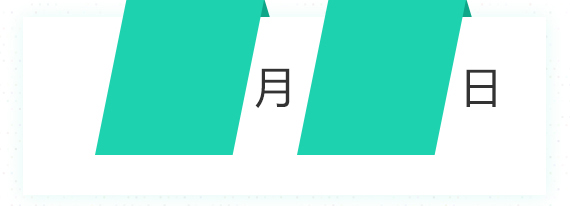
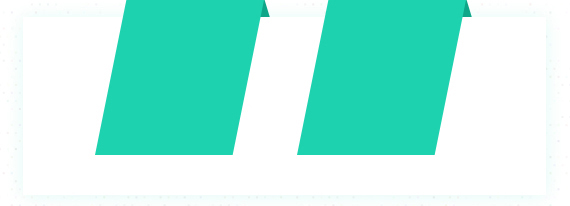
update

Changed region(s): [[0.8053, 0.3204, 0.8947, 0.5243], [0.4474, 0.3204, 0.507, 0.5243]]

diff --git a/src/lang/zh.js b/src/lang/zh.js
@@ -104,10 +104,7 @@ module.exports = {
     part3Text1:"师资阵容",
     part3Text2:"你的人生导师",
 
-    part3Text3a:"① 打造高品质师资团队",
-    part3Text3b:"② 更加靠谱",
-    part3Text3c:"③ 更懂考点",
-    part3Text3d:"④ 更懂沟通",
+    part3Text3:"① 打造高品质师资团队<br>② 更加靠谱<br>③ 更懂考点<br>④ 更懂沟通",
 
     part3Text4:"在新康教育，一定能找到适合你的导师",
 
@@ -188,6 +185,8 @@ module.exports = {
 
     part7Titl:'2019年上海市成人学历初审时间即将截止',
     part7Subt:'自考本科一年报名时间只有两次，每年3月和9月，错过至少会耽误1年时间毕业',
+    part7Month:'月',
+    part7Date:'日',
     part7Note:'报考提醒：正式报名时间很短，官网会出现堵塞，建议考生提早报考，否则可能出现:① 考场名额限额，考场被安排在偏远区域；② 专业院校名额有限，选不上想报的专业。',
     part7Items:[
         {
@@ -431,12 +430,39 @@ module.exports = {
 
 
 
+
+   
+    // newsdetails
+    newsCt:{
+        '0001':{
+          title:'叶的事业--新康教育为何要对学生<br>进行感恩教育',
+          date:'2018-12-21',
+          visits:'2028',
+          text:'伟大的诗人泰戈尔有这样一段名言：“花的事业是甜蜜的，果的事业是珍贵的”。而我们新康做的是“叶”的事业，每位老师都象是一片绿叶，在学院领导的带领下进行着光合作用，孕育着花，孕育着果，孕育着芬芳桃李。作为一所全日制高等助学院校，我们不仅要致力于学生的知识提高，更强调学生个人素质、品格的提高。让我们怀揣着一颗感恩的心，感谢家长放心地把孩子交给我们！我们要把我们的爱，我们的智慧，我们的感恩之心传递给我们的每位学子.感恩是一种生活态度，是一种美德，是一片片肺腑之言。<br>现代的孩子都是家庭的中心，他们心中只知爱自己，不知道关爱别人。不少学生不但不体谅父母的辛劳，反而无休止索取，买吃的，买穿的，进网吧……在他们眼中，向父母要钱天经地义。大学生中，许多学生从父母那里要钱，但给家里写信问候的学生不到十分之一。我们不应该这样做，应该时时刻刻为别人着想，父母给你东西时应该说声“谢谢”，应该为父母做一些家务，更应该好好学习，以报答老师和学校。<br>美国的民歌《老黑奴》，那种对世界乐观的态度，对人生的豁达，由此联想到了西方文化的感恩节，想到了我们从古以来，历史文化长河中永不消失的感情——感恩。“知恩不报非君子”。我们要怀着一颗感恩的心，应该时时、天天、年年直至永远；让感恩应该作为一种习惯，一种美德，在我们心中深深扎根。<br>“叶”的事业，感谢有您的信任和支持！'
+
+        },
+        '0002':{
+          title:'新康教育-就业指导课<br>专家来帮忙',
+          date:'2018-12-21',
+          visits:'2028',
+          text:'8月1日 上午9点30分，由上海市职介所副所长带领的专家团队光临上海新康进修学院，并在我院展开“金色阳光就业指导讲座”讲座活动。<br>为了帮助大四毕业生准确有效地确定就业方向，提前做好就业准备，培训就业中心和上海市职业指导专家携手就当前就业形式、就业方向及定位做了详细的指导，参与此次讲座的13级的学子们从中获得了不少宝贵的经验。<br>专家用生动的语言、鲜明的事例，围绕在校大学生如何看待当今的就业形势、学会正确分析自己的优势与不足，如何转变就业观念等多个方面的问题，为同学们做了详细的解析。<br>通过这次精彩的讲座使同学们认识到了职业生涯规划的重要性，帮助学生认清就业形势，为自己制定一个更加合理的职业定位，调整好自己的心态，为即将面临的就业问题奠定了良好的基础。<br>培训就业中心会以务实的态度，积极努力的为学生的就业服务，积极响应“一切为学生，为了一切学生，为了学生一切”的办学理念。'
+
+        },
+        '0003':{
+          title:'新康教育努力做好一件事,为社会<br>培养有用人才',
+          date:'2018-12-21',
+          visits:'2028',
+          text:'家长们！在社会竞争非常激烈的时代，没有丰富的科学文化知识是不行的。“知识就是力量”，知识对于现在社会的重要性不言而喻。现在摆在我们面前的是机遇与挑战并存，谁能在人生的第一次重要的抉择中胜出，谁就使未来的成功多一份保障。<br>孩子是每个家庭最大的希望，新康教育作为一所承载着众多家庭希望的民办院校，有责任也有义务将您的孩子培养成为社会有用人才。<br>学院为学生创造了利于学习的环境、氛围和条件，从学习方法、学习态度、学习习惯等方面给以正面的教育和引导。同时，学院及时疏导、纠正孩子成长过程中遇到的思想困惑、情感波动和行为偏差。学院着重培养孩子良好的品行习惯，对孩子的道德品行、良好习惯的养成从开始抓起，从小事抓起，对不良行为要及时地预防和矫治。<br>学院自建校以来即实行“半封闭式管理”班主任老师全天候24小时对学生进行跟踪管理，从学生一入学即建立成长记录，确保学生的健康成长，同时实行的宿舍走访制度、定期与家长联系制度、定期班会制度贯穿于整个管理过程。'
+        }
+    },
+    part16Time:'发布时间',
+    part16Visits:'访问量',
+
     part17Addr:'地址：上海普陀区中山北路3553号伸大厦22楼',
     part17Tel:'电话：400-060-6080',
 
 
     part17Titl:'关于新康',
-
     part17Items:[
       {text1:'13年',text2:'教育培训经验',isFirst:true},
       {text1:'1600位',text2:'专业服务团队',isFirst:false},
@@ -445,5 +471,15 @@ module.exports = {
       {text1:'800+',text2:'合作企业',isFirst:false},
       {text1:'200+',text2:'院校合作',isFirst:false}
     ],
-    part17Text1:'上海新康进修学院成立于 2007 年，是一所经区教育局审批设立，于2011年7月经上海市教育委员会、高等教育自学考试委员会、区教育局审批， 获得高等教育自学考试助学单位资质，从事高等及高等以下非学历业余、全日制教育的民办院校。专注于业余制专科、本科学历考试辅导，课程涵盖自学考试、 成人高考、网络教育、国家开放大学四种成人学历考试辅导课程、专本科所开设专业达到20多个类别，是沪上优质社会助学单位；多年来已经先后培育学员近 3 万人。'
+    part17Text:'上海新康进修学院成立于 2007 年，是一所经区教育局审批设立，于2011年7月经上海市教育委员会、高等教育自学考试委员会、区教育局审批， 获得高等教育自学考试助学单位资质，从事高等及高等以下非学历业余、全日制教育的民办院校。专注于业余制专科、本科学历考试辅导，课程涵盖自学考试、 成人高考、网络教育、国家开放大学四种成人学历考试辅导课程、专本科所开设专业达到20多个类别，是沪上优质社会助学单位；多年来已经先后培育学员近 3 万人。',
+    
+
+    part17Titl2:'企业文化',
+
+    part17Subt1:'我们的使命',
+    part17Text1:'让学习成就更美好的未来',
+    part17Subt2:'我们的愿景',
+    part17Text2:'成为最受尊敬的有文化价值的教育机构。做教育事业，唯有做到对学员负责、对社会负责、才能有立足之地，才能获得真正的尊重。',
+    part17Subt3:'核心价值观',
+    part17Text3:'1.) 学员第一，成就学员，是我们存在的唯一理由。<br>2.) 团队合作，共享共担，平凡人一起成就不平凡事。<br>3.) 诚信敬业，诚实守信，专业执着。<br>4.) 执行力，结果导向，马上行动。<br>5.) 创新，拥抱变化，勇于创新。<br>6.) 激情，永不放弃，乐观向上。',
 }

diff --git a/src/lang/en.js b/src/lang/en.js
@@ -14,7 +14,7 @@ module.exports = {
        },
        {title:"Students' aspirations",isActive:false,isFirst:false,link:'studentvoice'},
        {title:"Company news",isActive:false,isFirst:false,link:'companynews'},
-       {title:"Company introduction",isActive:false,isFirst:false,link:'companyprofile'},
+       {title:"Company profile",isActive:false,isFirst:false,link:'companyprofile'},
        {title:"Contact us",isActive:false,isFirst:false,link:'contactus'}
     ],
     part1Titl:'New Kang Education Tailor-made Academic Degree Promotion Program',
@@ -101,10 +101,7 @@ module.exports = {
     part3Text1:"Teacher lineup",
     part3Text2:"Your life mentor",
 
-    part3Text3a:"① Building a Team of High Quality Teachers",
-    part3Text3b:"② More reliable",
-    part3Text3c:"③ Better understanding of test points",
-    part3Text3d:"④ Better Communication",
+    part3Text3:"① Building a Team of High Quality Teachers<br>② More reliable<br>③ Better understanding of test points<br>④ Better Communication",
 
     part3Text4:"In the new well-off education, you will surely find a suitable mentor for you.",
     
@@ -185,6 +182,8 @@ module.exports = {
     ],
     part7Titl:'The time for the first examination of adult education in Shanghai in 2019 is coming to an end.',
     part7Subt:'Self-taught undergraduate enrollment time is only twice a year, every year in March and September, missed will delay graduation for at least one year.',
+    part7Month:'Month',
+    part7Date:'Date',
     part7Note:'Reminds: 1) the examination room quota, the examination room is arranged in remote areas; 2) the number of professional colleges is limited.',
     part7Items:[
         {
@@ -422,7 +421,31 @@ module.exports = {
 
     part15SideBtn4:'Company Profile',
     part15SideBtn5:'Contact us',
+    // newsdetails
+    newsCt:{
+        '0001':{
+          title:'Ye Career--Why Should Xinkang Education Carry out Thanksgiving Education for Students',
+          date:'2018-12-21',
+          visits:'2028',
+          text:'The great poet Tagore has such a famous saying: "The cause of flowers is sweet, the cause of fruits is precious". And what we do in Xinkang is the cause of "leaf". Every teacher is like a green leaf. Under the leadership of the college, he is carrying out photosynthesis, nurturing flowers, fruits and fragrant peaches and plums. As a full-time college, we should not only devote ourselves to the improvement of students knowledge, but also emphasize the improvement of students personal quality and character. Let us cherish a grateful heart and thank parents for giving our children to us at ease. We should convey our love, our wisdom and our gratitude to every student. Gratitude is an attitude towards life, a virtue, a piece of heartfelt words. <br> Modern children are the center of the family. They only know how to love themselves and others. Not only do many students not appreciate their parents hard work, but they endlessly ask for, buy food, buy clothes and go to Internet cafes. In their eyes, it is natural to ask parents for money. Among College students, many students ask for money from their parents, but less than one-tenth of them write to their families to greet them. We shouldn not do this. We should always be considerate of others. When parents give you something, they should say "Thank you". They should do some housework for their parents. They should also study hard to repay teachers and schools. <br> The American folk song Old Black Slave,'
 
+        },
+        '0002':{
+          title:'Xinkang Education-Employment Guidance Course Experts to Help',
+          date:'2018-12-21',
+          visits:'2028',
+          text:'At 9:30 a.m. on August 1, a team of experts led by the deputy director of Shanghai Vocational Agency visited Shanghai Xinkang College of Continuing Education and held a "Golden Sunshine Employment Guidance Lecture" in our college. <br> In order to help senior graduates to accurately and effectively determine the direction of employment and prepare for employment in advance, the Training and Employment Center and Shanghai Vocational Guidance Experts jointly gave detailed guidance on the current employment form, direction and orientation. The 13-level students who participated in this lecture gained a lot of valuable experience. <br> With vivid language and vivid examples, experts have made a detailed analysis for students on how to view the current employment situation, how to correctly analyze their strengths and weaknesses, and how to change the concept of employment'
+
+        },
+        '0003':{
+          title:'Xinkang Education strives to do a good job in training useful talents for the society',
+          date:'2018-12-21',
+          visits:'2028',
+          text:'Parents! In an era of intense social competition, it is impossible to have a wealth of scientific and cultural knowledge. "Knowledge is power." The importance of knowledge to modern society is self-evident. Now we are confronted with both opportunities and challenges. Whoever wins the first important decision in life will guarantee the success of the future. <br> Children are the greatest hope of every family. As a private college carrying the hope of many families, Xinkang Education has the responsibility and obligation to train your children to be useful talents in society. <br> The College has created an environment, atmosphere and conditions conducive to learning for students, and has provided positive education and guidance from the aspects of learning methods, learning attitudes and learning habits. At the same time, the college should timely guide and correct the puzzles, emotional fluctuations and behavioral deviations in the process of childrens growth.'
+        }
+    },
+    part16Time:'Release time',
+    part16Visits:'Access',
     part17Addr:'Address: 22 Floor, Yan Building, 3553 Zhongshan North Road, Putuo District, Shanghai',
     part17Tel:'Telephone: 400-060-6080',
 
@@ -435,5 +458,14 @@ module.exports = {
       {text1:'800+',text2:'Cooperative Enterprises',isFirst:false},
       {text1:'200+',text2:'Institutional Cooperation',isFirst:false}
     ],
-    part17Text1:'Shanghai Xinkang College of Further Education was established in 2007 and approved by the District Education Bureau. It was approved by the Shanghai Education Committee, the Higher Education Self-taught Examination Committee and the District Education Bureau in July 2011. It has obtained the qualifications of self-taught higher education examination assistant units and engaged in non-academic amateur and full-time education of higher education and below. '
+    part17Text:'Shanghai Xinkang College of Further Education was established in 2007 and approved by the District Education Bureau. It was approved by the Shanghai Education Committee, the Higher Education Self-taught Examination Committee and the District Education Bureau in July 2011. It has obtained the qualifications of self-taught higher education examination assistant units and engaged in non-academic amateur and full-time education of higher education and below. ',
+
+    part17Titl2:'corporate culture',
+
+    part17Subt1:'Our Mission',
+    part17Text1:'Let Learning Achieve a Better Future',
+    part17Subt2:'Our Vision',
+    part17Text2:'Become the most respected educational institution with cultural value. Only by being responsible to the students and society can we have a foothold in the cause of education and gain real respect.',
+    part17Subt3:'Core values',
+    part17Text3:'1.) Student First, Achieving Student is the only reason why we exist.。<br>2.) Team work, sharing and sharing, ordinary people work together to achieve extraordinary things.<br>3.) Honesty and dedication, honesty and trustworthiness, professional perseverance.<br>4.) Execution, result orientation, immediate action.<br>5.) Innovation, embracing change and daring to innovate.<br>6.) Passion, never give up, optimistic.',
 }  

diff --git a/src/pages/NewsDetail.vue b/src/pages/NewsDetail.vue
@@ -2,9 +2,10 @@
   <div class="news-detail">
      <div class="part16">
         <div class="container part16-ct">
-            <p class="part16-p1" v-html="newsCt[this.num].title"></p>
-            <p class="part16-p2">发布时间：{{newsCt[this.num].date}}&nbsp;&nbsp;&nbsp;&nbsp;&nbsp;&nbsp;访问量：{{newsCt[this.num].visits}}</p>
-            <p class="part16-p3" v-html="newsCt[this.num].text"></p>
+            
+            <p class="part16-p1" v-html="$t('newsCt')[this.num].title"></p>
+            <p class="part16-p2">{{$t('part16Time')}}：{{$t('newsCt')[this.num].date}}&nbsp;&nbsp;&nbsp;&nbsp;&nbsp;&nbsp;{{$t('part16Visits')}}：{{$t('newsCt')[this.num].visits}}</p>
+            <p class="part16-p3" v-html="$t('newsCt')[this.num].text"></p>
         </div>
      </div>
     
@@ -19,33 +20,10 @@ export default {
   data () {
     return {
       msg: 'Welcome to Your Vue.js App',
-      num:'',
-      newsCt:{
-        '0001':{
-          title:'叶的事业--新康教育为何要对学生<br>进行感恩教育',
-          date:'2018-12-21',
-          visits:'2028',
-          text:'伟大的诗人泰戈尔有这样一段名言：“花的事业是甜蜜的，果的事业是珍贵的”。而我们新康做的是“叶”的事业，每位老师都象是一片绿叶，在学院领导的带领下进行着光合作用，孕育着花，孕育着果，孕育着芬芳桃李。作为一所全日制高等助学院校，我们不仅要致力于学生的知识提高，更强调学生个人素质、品格的提高。让我们怀揣着一颗感恩的心，感谢家长放心地把孩子交给我们！我们要把我们的爱，我们的智慧，我们的感恩之心传递给我们的每位学子.感恩是一种生活态度，是一种美德，是一片片肺腑之言。<br>现代的孩子都是家庭的中心，他们心中只知爱自己，不知道关爱别人。不少学生不但不体谅父母的辛劳，反而无休止索取，买吃的，买穿的，进网吧……在他们眼中，向父母要钱天经地义。大学生中，许多学生从父母那里要钱，但给家里写信问候的学生不到十分之一。我们不应该这样做，应该时时刻刻为别人着想，父母给你东西时应该说声“谢谢”，应该为父母做一些家务，更应该好好学习，以报答老师和学校。<br>美国的民歌《老黑奴》，那种对世界乐观的态度，对人生的豁达，由此联想到了西方文化的感恩节，想到了我们从古以来，历史文化长河中永不消失的感情——感恩。“知恩不报非君子”。我们要怀着一颗感恩的心，应该时时、天天、年年直至永远；让感恩应该作为一种习惯，一种美德，在我们心中深深扎根。<br>“叶”的事业，感谢有您的信任和支持！'
-
-        },
-        '0002':{
-          title:'新康教育-就业指导课<br>专家来帮忙',
-          date:'2018-12-21',
-          visits:'2028',
-          text:'8月1日 上午9点30分，由上海市职介所副所长带领的专家团队光临上海新康进修学院，并在我院展开“金色阳光就业指导讲座”讲座活动。<br>为了帮助大四毕业生准确有效地确定就业方向，提前做好就业准备，培训就业中心和上海市职业指导专家携手就当前就业形式、就业方向及定位做了详细的指导，参与此次讲座的13级的学子们从中获得了不少宝贵的经验。<br>专家用生动的语言、鲜明的事例，围绕在校大学生如何看待当今的就业形势、学会正确分析自己的优势与不足，如何转变就业观念等多个方面的问题，为同学们做了详细的解析。<br>通过这次精彩的讲座使同学们认识到了职业生涯规划的重要性，帮助学生认清就业形势，为自己制定一个更加合理的职业定位，调整好自己的心态，为即将面临的就业问题奠定了良好的基础。<br>培训就业中心会以务实的态度，积极努力的为学生的就业服务，积极响应“一切为学生，为了一切学生，为了学生一切”的办学理念。'
-
-        },
-        '0003':{
-          title:'新康教育努力做好一件事,为社会<br>培养有用人才',
-          date:'2018-12-21',
-          visits:'2028',
-          text:'家长们！在社会竞争非常激烈的时代，没有丰富的科学文化知识是不行的。“知识就是力量”，知识对于现在社会的重要性不言而喻。现在摆在我们面前的是机遇与挑战并存，谁能在人生的第一次重要的抉择中胜出，谁就使未来的成功多一份保障。<br>孩子是每个家庭最大的希望，新康教育作为一所承载着众多家庭希望的民办院校，有责任也有义务将您的孩子培养成为社会有用人才。<br>学院为学生创造了利于学习的环境、氛围和条件，从学习方法、学习态度、学习习惯等方面给以正面的教育和引导。同时，学院及时疏导、纠正孩子成长过程中遇到的思想困惑、情感波动和行为偏差。学院着重培养孩子良好的品行习惯，对孩子的道德品行、良好习惯的养成从开始抓起，从小事抓起，对不良行为要及时地预防和矫治。<br>学院自建校以来即实行“半封闭式管理”班主任老师全天候24小时对学生进行跟踪管理，从学生一入学即建立成长记录，确保学生的健康成长，同时实行的宿舍走访制度、定期与家长联系制度、定期班会制度贯穿于整个管理过程。'
-        }
-      }
+      num:''
     }
   },
   created(){
-    console.log(this.$route.params.id)
     this.num = this.$route.params.id
   }
 }

diff --git a/src/pages/CompanyProfile.vue b/src/pages/CompanyProfile.vue
@@ -4,39 +4,29 @@
     <div class="part15">
         <div class="container clearfix">
            <div class="part15-sidebar fl">
-             <router-link to="companyprofile" class="part15-sv active">{{$t('part15SideBtn3')}}</router-link>
-             <router-link to="contactus" class="part15-sv">{{$t('part15SideBtn4')}}</router-link>
+             <router-link to="companyprofile" class="part15-sv active">{{$t('part15SideBtn4')}}</router-link>
+             <router-link to="contactus" class="part15-sv">{{$t('part15SideBtn5')}}</router-link>
            </div>
-      <div class="part15-content fr part17-content">
-        <p class="part17-p1">{{$t('part17Titl')}}</p>
-        <ul class="part17-advs clearfix">
-           <li class="part17-adv" v-for="item in $t('part17Items')" :class="{'no-ml':item.isFirst}"><span>{{item.text1}}</span><br>{{item.text2}}</li>
-        </ul>
-        <p class="part17-p2">{{$t('part17Text1')}}</p>
-        
-         <p class="part17-p1">企业文化</p>
+          <div class="part15-content fr part17-content">
+            <p class="part17-p1">{{$t('part17Titl')}}</p>
+            <ul class="part17-advs clearfix">
+               <li class="part17-adv" v-for="item in $t('part17Items')" :class="{'no-ml':item.isFirst}"><span>{{item.text1}}</span><br>{{item.text2}}</li>
+            </ul>
+            <p class="part17-p2">{{$t('part17Text')}}</p>
+            
+             <p class="part17-p1">{{$t('part17Titl2')}}</p>
 
-         <p class="part17-p3">我们的使命</p>
-         <p class="part17-p4">让学习成就更美好的未来</p>
+             <p class="part17-p3">{{$t('part17Subt1')}}</p>
+             <p class="part17-p4">{{$t('part17Text1')}}</p>
 
-         <p class="part17-p3">我们的愿景</p>
-         <p class="part17-p4">成为最受尊敬的有文化价值的教育机构。做教育事业，唯有做到对学员负责、对社会负责、才能有立足之地，才能获得真正的尊重。</p>
+             <p class="part17-p3">{{$t('part17Subt2')}}</p>
+             <p class="part17-p4">{{$t('part17Text2')}}</p>
 
-         <p class="part17-p3">核心价值观</p>
-         <p class="part17-p4">
-          1.) 学员第一，成就学员，是我们存在的唯一理由。<br>
-          2.) 团队合作，共享共担，平凡人一起成就不平凡事。<br>
-          3.) 诚信敬业，诚实守信，专业执着。<br>
-          4.) 执行力，结果导向，马上行动。<br>
-          5.) 创新，拥抱变化，勇于创新。<br>
-          6.) 激情，永不放弃，乐观向上。</p>
-     </div>
-
-
+             <p class="part17-p3">{{$t('part17Subt3')}}</p>
+             <p class="part17-p4" v-html="$t('part17Text3')"></p>
+          </div>
         </div>
     </div>
-
-    
   </div>
 </template>
 

diff --git a/src/assets/css/style.css b/src/assets/css/style.css
@@ -344,18 +344,26 @@
   height: 206px;
   margin:20px auto 0;
   background:url(../images/zx3.1_03.jpg) no-repeat center;
-  padding:0 100px;
+  padding: 0 60px 0 100px;
 }
-.part7-riqi span{
+.part7-s1{
   display:block;
   float: left;
-  width: 170px;
+  width: 150px;
   font-size: 80px;
-  line-height: 154px;
+  line-height:154px;
   color:#fff;
 }
-.part7-riqi span.date{
-  margin-left:30px;
+.part7-s2{
+ display:block;
+ width:45px;
+ overflow:hidden;
+ text-overflow: ellipsis;
+ white-space: nowrap;
+  float: left;
+    font-size: 30px;
+    line-height: 200px;
+    color: #000;
 }
 .part7-note{
   background: url(../images/zxtx_03.jpg) no-repeat center center;

diff --git a/src/pages/ContactUs.vue b/src/pages/ContactUs.vue
@@ -4,8 +4,8 @@
     <div class="part15">
         <div class="container clearfix">
            <div class="part15-sidebar fl">
-             <router-link to="companyprofile" class="part15-sv">{{$t('part15SideBtn3')}}</router-link>
-             <router-link to="contactus" class="part15-sv active">{{$t('part15SideBtn4')}}</router-link>
+             <router-link to="companyprofile" class="part15-sv">{{$t('part15SideBtn4')}}</router-link>
+             <router-link to="contactus" class="part15-sv active">{{$t('part15SideBtn5')}}</router-link>
            </div>
 
            <div class="part15-content part17-content2 fr">

diff --git a/src/pages/SelfExam.vue b/src/pages/SelfExam.vue
@@ -39,8 +39,10 @@
            <p>{{$t('part7Titl')}}<br><span>{{$t('part7Subt')}}</span></p>
          </div>
          <div class="part7-riqi clearfix">
-            <span class="month">06</span>
-            <span class="date">02</span>
+            <span class="part7-s1 month">06</span>
+            <span class="part7-s2">{{$t('part7Month')}}</span>
+            <span class="part7-s1 date">02</span>
+            <span class="part7-s2">{{$t('part7Date')}}</span>
          </div>
          <div class="part7-note">{{$t('part7Note')}}</div>
 

diff --git a/src/pages/Home.vue b/src/pages/Home.vue
@@ -40,10 +40,7 @@
               <p class="part3-p1">{{$t('part3Text1')}}</p>
               <p class="part3-p2">{{$t('part3Text2')}}</p>
 
-              <p class="part3-p3">{{$t('part3Text3a')}}</p>
-              <p class="part3-p3">{{$t('part3Text3b')}}</p>
-              <p class="part3-p3">{{$t('part3Text3c')}}</p>
-              <p class="part3-p3">{{$t('part3Text3d')}}</p>
+              <p class="part3-p3" v-html="$t('part3Text3')"></p>
 
               <p class="part3-p4">{{$t('part3Text4')}}</p>
             </div>

diff --git a/src/main.js b/src/main.js
@@ -14,7 +14,7 @@ Vue.config.productionTip = false
 import VueI18n from 'vue-i18n'
 Vue.use(VueI18n);
 const i18n = new VueI18n({
-    locale: 'zh',  // 语言标识
+    locale: 'en',  // 语言标识
     messages: {
         'zh': require('./lang/zh'),
         'en': require('./lang/en')

diff --git a/config/index.js b/config/index.js
@@ -43,7 +43,7 @@ module.exports = {
     // Paths
     assetsRoot: path.resolve(__dirname, '../dist'),
     assetsSubDirectory: 'static',
-    assetsPublicPath: '/',
+    assetsPublicPath: './',
 
     /**
      * Source Maps
